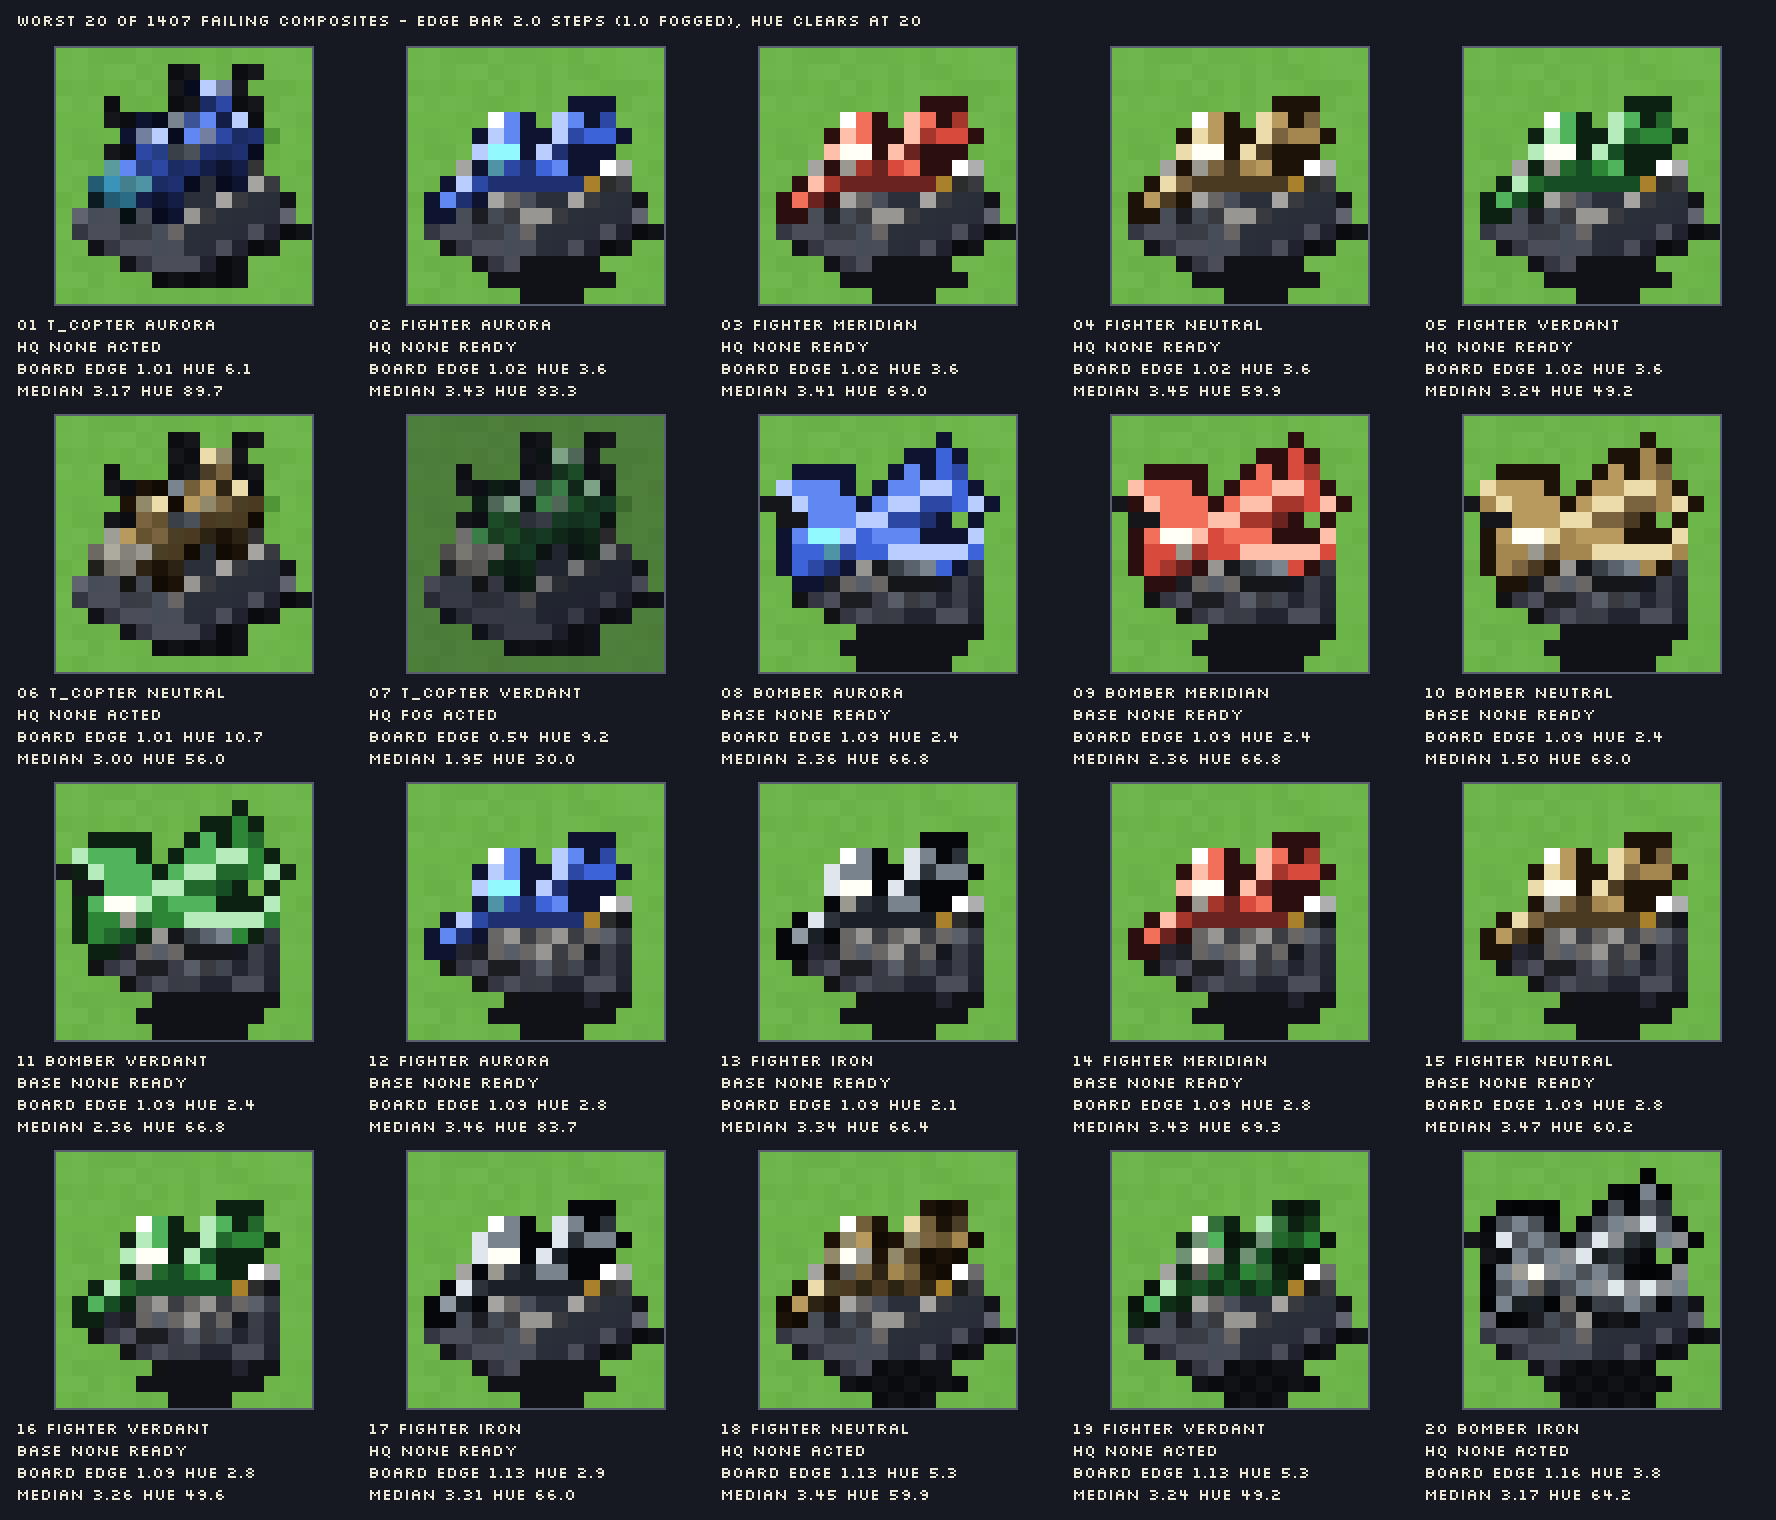
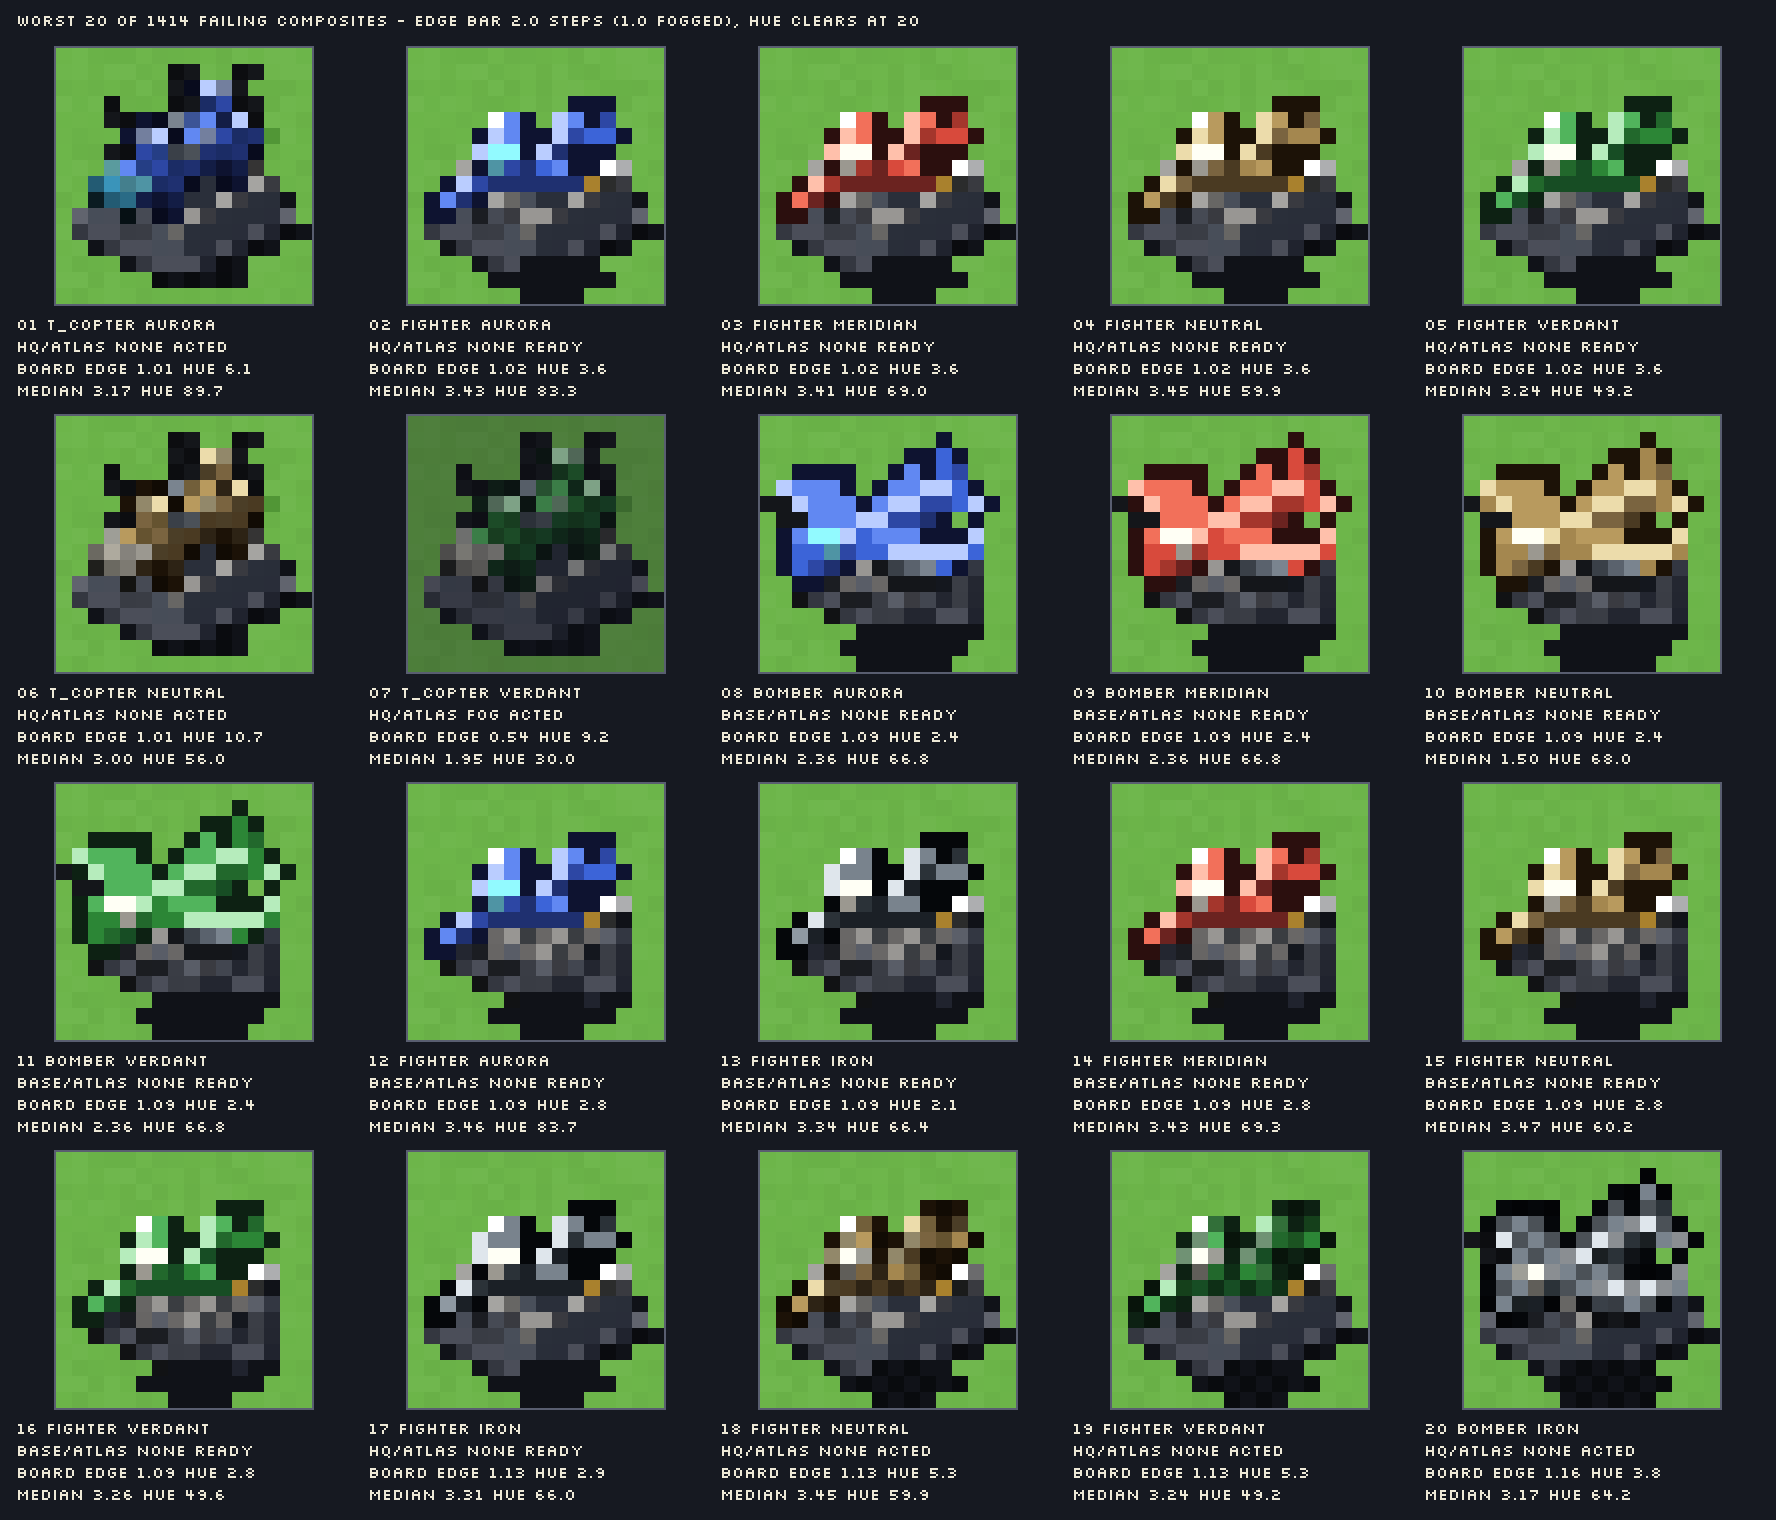
Fan the legibility ruler out over a terrain's variants
The sweep probed one cell per terrain, so open water was scored on whichever
sea phase the probe cell happened to wear and the phases beside it went
unmeasured. LegibilityArt.board_cells now walks a probe along a row of the
terrain and keeps every variant TerrainAutotiles answers with — no family list
here, so a family that gains phases is measured through them without this
harness learning its name — and each row reports the worst of them, named:
`variant` beside `terrain` in cells.csv, a terrain/variant table in the summary,
the tile in the worst list and in the gallery caption, and --dump's sixth field.

Inert on today's art to the headline: 15.9% clear / 6.8% fogged before and
after. The 7 cells behind it are all sea (90 -> 97 failing), the phases being
alike but not identical; docs/sprite_legibility.md records the re-read.

Changed region(s): [[0.1239, 0.0, 0.1858, 0.0309]]

diff --git a/docs/sprite_legibility.md b/docs/sprite_legibility.md
@@ -28,6 +28,17 @@ Re-run with `make legibility-check`. It reads the shipped atlases and the shippe
 no match, takes about a minute, writes `cells.csv` and `summary.md` under `reports/` (gitignored) —
 and redraws the one artifact it publishes, the worst-twenty gallery below.
 
+## Re-read 2026-08-19, over the terrain variants
+
+The ruler now reads a ground on every tile its family can draw and reports the worst (see *What is
+measured*), where it used to read the one tile a single probe cell happened to wear. Only open water
+has more than one tile today, and the re-read is **1,291 failing (15.9%) clear and 123 (6.8%)
+fogged** against the 1,284 (15.9%) / 123 (6.8%) above: **the whole difference is the sea, 90 → 97**,
+and the headline percentages are unmoved. The three phases are alike but not identical — of the
+sea cells, phase 2 wins the worst-of 151 times and fails 16.6% of them against phase 1's 7.3%, so a
+phase is worth naming even now. Nothing was tuned in response, and no other terrain, unit,
+faction or class moved by a cell.
+
 ## What the generator changed
 
 The board draws a 64 px cell onto a 16 px grid with nearest filtering: it keeps one source pixel in
@@ -50,6 +61,15 @@ threat, fog} at board resolution, plus the same figures at the cut-in's resoluti
 composites**, stacked in battle.tscn's own node order: terrain, the wash over it, the unit over
 that, the fog shroud over everything. One ramp step is **0.1543 luminance**, measured off the
 shipped units atlas.
+
+A ground is measured on **every tile its family can draw** where its own kind surrounds it, and the
+row reports the **worst** of them, named — open water is three phases of the sea sheet, everything
+else on the board is one tile today. So a row is keyed by a tile rather than by a terrain: the
+`variant` column beside `terrain` in `cells.csv` and in the `terrain/variant` table names it (a
+phase index, a connection mask, or `atlas` for a base-atlas cell), and `--dump` takes it as its
+sixth field. Which variants exist is asked of `TerrainAutotiles` by walking a probe cell along a row
+of its terrain, so a family that gains phases is measured through them without this harness learning
+its name.
 
 ## The headline
 
@@ -192,8 +212,8 @@ it with finding 5.
 ## Spot checks
 
 Three composites read by eye, each dumped by the harness itself
-(`make legibility-check LEGIBILITY="--dump=board:apc:neutral:ready:plains:none"`), which prints both
-readings beside the crop.
+(`make legibility-check LEGIBILITY="--dump=board:apc:neutral:ready:plains:atlas:none"`), which
+prints both readings beside the crop.
 
 The round's headline, at the cell two previous rounds could not move: a neutral APC on plains,
 **0.05 → 3.46 edge steps**. Nothing about the model changed; the outline is simply thick enough to
